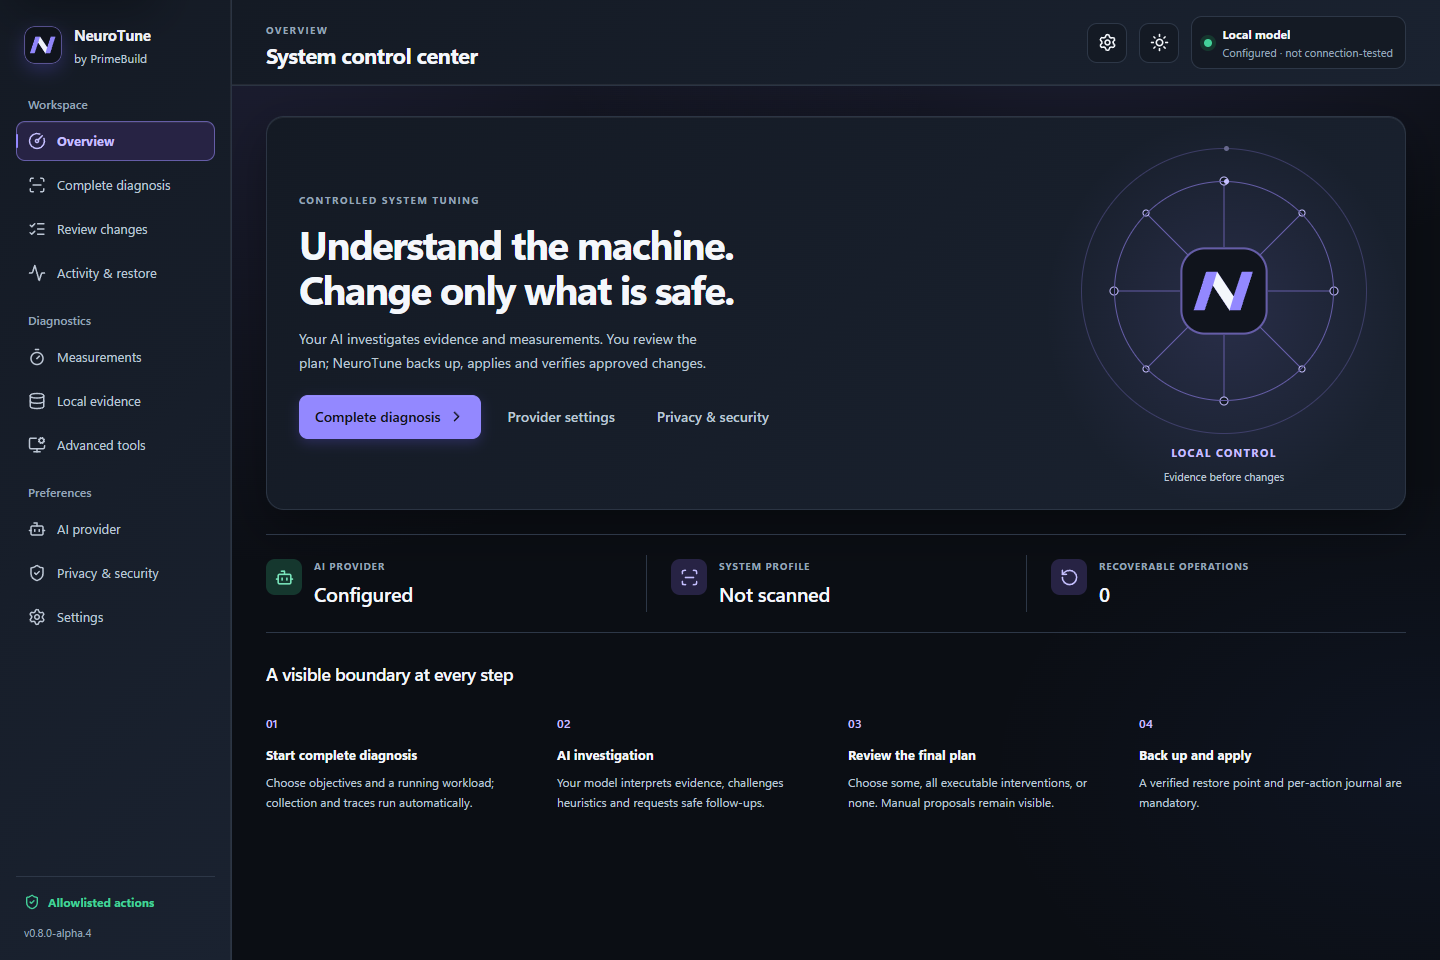
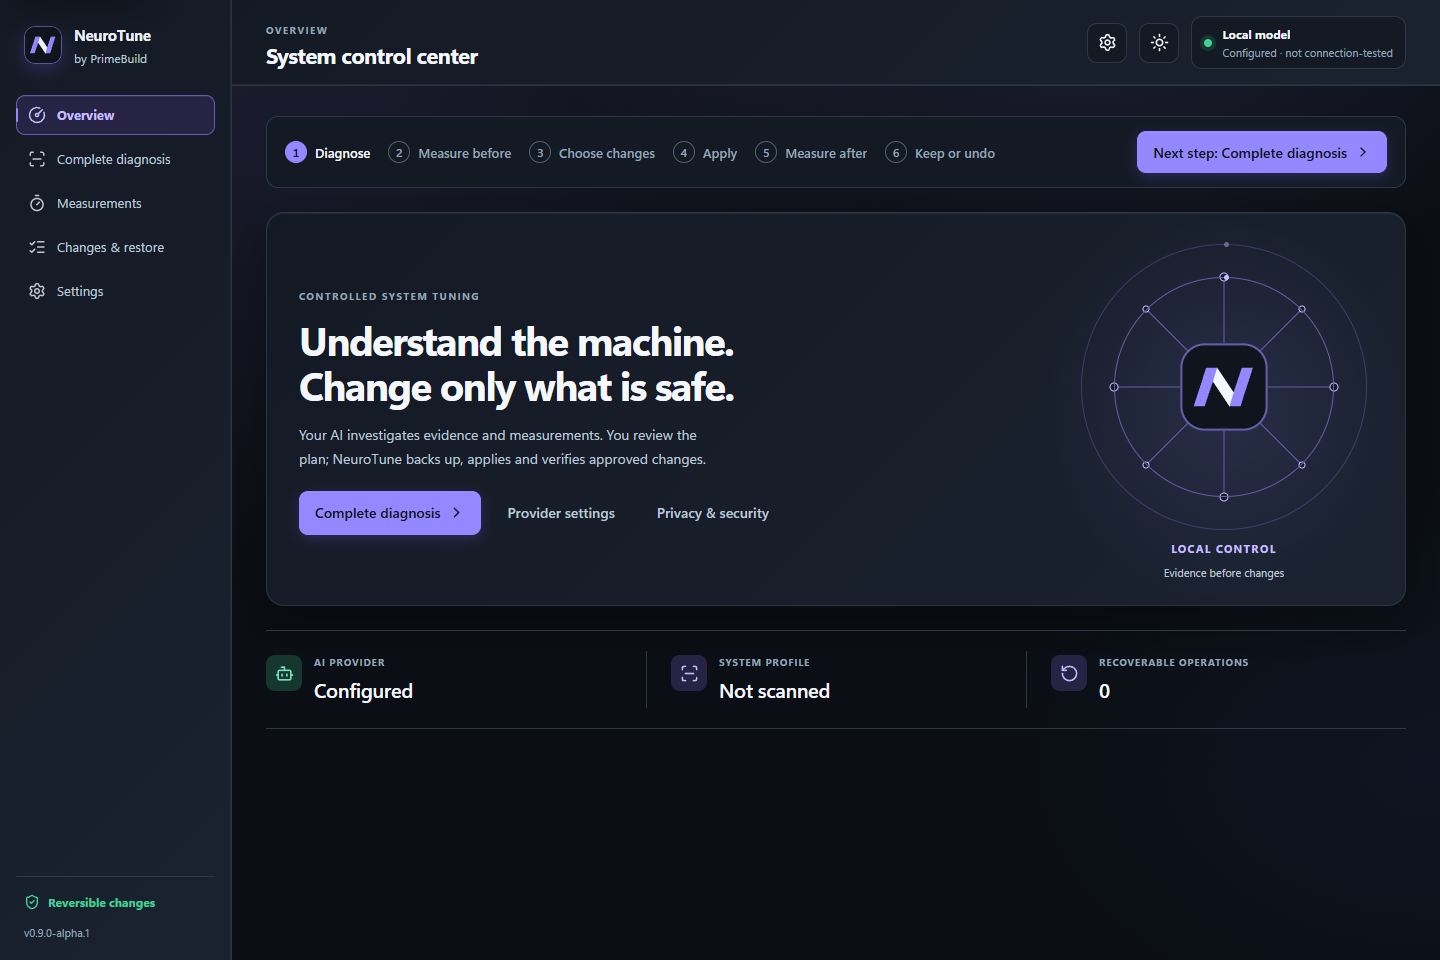
docs: current-UI README screenshots, v2 wording in two UI labels
capture-readme skips the guided setup and mocks the v2 read-only defender-guard and persistence-check calls. 'Allowlisted actions' and the registered-actions-only model output note now describe typed, approved changes and Expert-only scripts (5 translations).

diff --git a/ui/src/App.tsx b/ui/src/App.tsx
@@ -567,7 +567,7 @@ function App() {
         <div className="brand"><img className="brand-mark" src="/logo.svg" width="40" height="40" alt=""/><div><strong>NeuroTune</strong><span>by PrimeBuild</span></div></div>
         <Navigation items={navigation.map(item => ({ ...item, label: t(item.label) }))} page={page} onPage={setPage} disabled={Boolean(diagnosisProgress) || securityBusy} quiet={quietMotion}/>
         <div className="sidebar-foot">
-          <div className="security-chip"><ShieldCheck size={16}/><span>{t("Allowlisted actions")}</span></div>
+          <div className="security-chip"><ShieldCheck size={16}/><span>{t("Reversible changes")}</span></div>
           <small>v0.9.0-alpha.1</small><span className="compact-attribution">by PrimeBuild</span>
         </div>
       </aside>
@@ -597,7 +597,7 @@ function App() {
           {page === 'overview' && <Overview hasProvider={providerConfigured} nextAction={nextOverviewAction} disabled={Boolean(busy || securityBusy)} scan={scan} history={history} coreState={quietMotion ? 'capture' : scanRequestId ? 'scan' : diagnosis && activeRun && ['baselineReady', 'baselinePending', 'proposalReady'].includes(activeRun.state) ? 'result' : 'idle'} onProvider={() => setPage('provider')} onScan={() => setPage('scan')} onPrivacy={() => setPage('security')}/>}
           {page === 'provider' && <ProviderPage provider={provider} apiKey={apiKey} hasCredential={hasCredential} models={models} modelLabels={modelLabels} chatGptAccounts={chatGptAccounts} authBusy={Boolean(busy) || authenticating} onSignOut={signOutChatGpt} onChoose={chooseProvider} onChange={value => { setProvider(value); if (value.chatGptAccountId !== provider.chatGptAccountId || value.baseUrl !== provider.baseUrl || value.protocol !== provider.protocol) { setHasCredential(false); setModels([]); setModelLabels({}); } }} onKey={value => { setApiKey(value); setModels([]); setModelLabels({}); }} onSave={saveProvider} onLoadModels={loadModels} onBrowserSignIn={browserSignIn} onModel={selectChatGptModel}/>}
           {(page === 'scan' || diagnosisOpened) && <div hidden={page !== 'scan'}><CompleteDiagnosis consentKey={`${provider.provider}:${provider.model}:${provider.baseUrl}:${provider.chatGptAccountId ?? ''}`} blockedReason={diagnosisBlockedReason} onProvider={!providerConfigured && !recording && !busy && !securityBusy && !runPending && !pendingRecovery ? () => setPage('provider') : undefined} mode={mode} onMode={setMode} goals={goals} onGoals={setGoals} onStart={(workload, duration, attachments, imagesConfirmed, conditions) => { void completeDiagnosis(workload, duration, attachments, imagesConfirmed, conditions); }} progress={diagnosisProgress} auditPreview={auditPreview} onAuditApprove={() => auditReview.current?.(true)} onCancel={cancelCompleteDiagnosis} blocked={Boolean(diagnosisBlockedReason)}><GoalContextEditor goals={goals} onGoals={setGoals}/></CompleteDiagnosis></div>}
-          {page === 'security' && <div className="security-page"><WindowsSecurityPanel blocked={Boolean(recording || busy || diagnosisProgress || pendingRecovery || activeRun && activeRun.mode !== 'auditOnly' && !['completed', 'failed'].includes(activeRun.state))} onBusy={setSecurityBusy}><section className="section-card"><h2>{t('AI-led investigation')}</h2><p>{t('Review Windows privacy and security evidence, protections and detections. Opening this page does not start collection, a scan, an AI request, a download or a system change.')}</p><p className="muted-copy">{t('The privacy and security objective specializes the investigation; mode, consent, provider, risk profile and approval remain separate. Choose it below, then review the complete diagnosis controls before starting.')}</p><button className="primary" disabled={Boolean(recording || busy || securityBusy || diagnosisProgress || pendingRecovery || activeRun && !['completed', 'failed'].includes(activeRun.state))} onClick={() => { setGoals(current => ({ ...current, priority: 'privacySecurity' })); setPage('scan'); }}><ShieldCheck size={16}/>{t('Choose privacy & security diagnosis')}</button><div className="settings-lines"><div><LockKeyhole size={18}/><span><strong>{t('Credentials')}</strong><small>{t('Encrypted with Windows DPAPI for this user')}</small></span></div><div><TerminalSquare size={18}/><span><strong>{t('Model output')}</strong><small>{t('AI can propose manual guidance and review-only scripts; only registered actions have write authority')}</small></span></div><div><RotateCcw size={18}/><span><strong>{t('Recovery')}</strong><small>{t('Verified restore point, Registry exports, and action journal')}</small></span></div></div></section></WindowsSecurityPanel></div>}
+          {page === 'security' && <div className="security-page"><WindowsSecurityPanel blocked={Boolean(recording || busy || diagnosisProgress || pendingRecovery || activeRun && activeRun.mode !== 'auditOnly' && !['completed', 'failed'].includes(activeRun.state))} onBusy={setSecurityBusy}><section className="section-card"><h2>{t('AI-led investigation')}</h2><p>{t('Review Windows privacy and security evidence, protections and detections. Opening this page does not start collection, a scan, an AI request, a download or a system change.')}</p><p className="muted-copy">{t('The privacy and security objective specializes the investigation; mode, consent, provider, risk profile and approval remain separate. Choose it below, then review the complete diagnosis controls before starting.')}</p><button className="primary" disabled={Boolean(recording || busy || securityBusy || diagnosisProgress || pendingRecovery || activeRun && !['completed', 'failed'].includes(activeRun.state))} onClick={() => { setGoals(current => ({ ...current, priority: 'privacySecurity' })); setPage('scan'); }}><ShieldCheck size={16}/>{t('Choose privacy & security diagnosis')}</button><div className="settings-lines"><div><LockKeyhole size={18}/><span><strong>{t('Credentials')}</strong><small>{t('Encrypted with Windows DPAPI for this user')}</small></span></div><div><TerminalSquare size={18}/><span><strong>{t('Model output')}</strong><small>{t('AI proposes typed changes that NeuroTune validates and you approve; scripts run only in Expert mode')}</small></span></div><div><RotateCcw size={18}/><span><strong>{t('Recovery')}</strong><small>{t('Verified restore point, Registry exports, and action journal')}</small></span></div></div></section></WindowsSecurityPanel></div>}
           {page === 'advanced' && <ScanPage mode={mode} onMode={value => { if (!busy && (!activeRun || ['completed', 'failed'].includes(activeRun.state))) setMode(value); }} scan={scan} diagnosis={displayedDiagnosis} goals={goals} scanning={Boolean(scanRequestId)} onGoals={setGoals} onScan={scanSystem} onDiagnose={diagnose}/>}
           {page === 'measurements' && <MeasurementsPage onRestoreItem={actionId => { if (activeRun?.operationId) void rollback(activeRun.operationId, actionId); }} onFollowUp={hydrateRun} actions={planActions} evidenceIds={measurementEvidenceIds} onEvidenceIds={setMeasurementEvidenceIds} optimizationRun={activeRun} onRun={setActiveRun} analysisGoals={goals} onRecording={setRecording}/>}
           {page === 'review' && <ReviewPage onDiagnosis={() => setPage(providerConfigured ? 'scan' : 'provider')} investigationFailed={Boolean(activeRun?.usedLocalFallback || diagnosis && diagnosis === localDiagnosis.current)} applyBlockedReason={applyBlockedReason} auditOnly={activeRun?.mode === 'auditOnly'} auditEvidence={activeRun?.evidenceFacts} diagnosis={displayedDiagnosis} supporting={activeRun?.supportingAttachments} actions={planActions} recommendations={recommendations} selected={selected} riskProfile={goals.riskProfile} canApply={activeRun?.mode !== 'auditOnly' && ['baselinePending', 'baselineReady'].includes(activeRun?.state ?? '')} onToggle={id => setSelected(current => toggle(current, id))} onPreset={applyPreset} onApply={applyChanges} onDismiss={activeRun && !activeRun.operationId && !activeRun.requiresRecovery && !['completed', 'failed'].includes(activeRun.state) ? () => { void dismissDiagnosis(); } : undefined}/>}

diff --git a/ui/src/locales/app.ts b/ui/src/locales/app.ts
@@ -213,7 +213,7 @@ export const appMessages: Messages = {
   'Got it': ['明白了', '了解', 'Entendido', 'Понятно', 'Ho capito'],
   'Skip to workspace': ['跳转到工作区', 'ワークスペースへ移動', 'Ir al área de trabajo', 'Перейти к рабочей области', 'Vai all\'area di lavoro'],
   'Windows intelligence': ['Windows 智能分析', 'Windows のインテリジェンス', 'Inteligencia para Windows', 'Интеллектуальный анализ Windows', 'Intelligenza di Windows'],
-  'Allowlisted actions': ['允许列表内的操作', '許可リスト内の操作', 'Acciones de la lista permitida', 'Действия из разрешённого списка', 'Solo azioni consentite'],
+  'Reversible changes': ['可回滚的更改', '元に戻せる変更', 'Cambios reversibles', 'Обратимые изменения', 'Modifiche reversibili'],
   'Quick Settings': ['快捷设置', 'クイック設定', 'Configuración rápida', 'Быстрые настройки', 'Impostazioni rapide'],
   'Toggle light and dark theme': ['切换浅色和深色主题', 'ライトとダークのテーマを切り替え', 'Alternar tema claro y oscuro', 'Переключить светлую и тёмную тему', 'Cambia tema chiaro/scuro'],
   'Ready': ['就绪', '準備完了', 'Listo', 'Готово', 'Pronto'],
@@ -424,7 +424,7 @@ export const appMessages: Messages = {
   'Local enforcement': ['本地强制控制', 'ローカルでの制限適用', 'Controles locales', 'Локальное обеспечение ограничений', 'Controlli locali'],
   'Credentials': ['凭据', '認証情報', 'Credenciales', 'Учётные данные', 'Credenziali'],
   'Encrypted with Windows DPAPI for this user': ['使用 Windows DPAPI 为此用户加密', 'このユーザー用に Windows DPAPI で暗号化', 'Cifradas con Windows DPAPI para este usuario', 'Зашифрованы Windows DPAPI для этого пользователя', 'Cifrate con Windows DPAPI per questo utente'],
-  'AI can propose manual guidance and review-only scripts; only registered actions have write authority': ['AI 可以提出手动指导和仅供审查的脚本；只有已注册的操作拥有写入权限', 'AI は手動の案内や確認専用スクリプトを提案できますが、書き込み権限は登録済み操作だけにあります', 'La IA puede proponer instrucciones manuales y scripts solo para revisión; únicamente las acciones registradas tienen autoridad de escritura', 'ИИ может предложить ручные инструкции и скрипты только для проверки; право записи имеют лишь зарегистрированные действия', 'L\'AI può proporre indicazioni manuali e script solo da leggere; solo le azioni registrate possono scrivere'],
+  'AI proposes typed changes that NeuroTune validates and you approve; scripts run only in Expert mode': ['AI 提出由 NeuroTune 验证、经你批准的类型化更改；脚本仅在专家模式下运行', 'AI は NeuroTune が検証しあなたが承認する型付きの変更を提案します。スクリプトはエキスパートモードでのみ実行されます', 'La IA propone cambios tipados que NeuroTune valida y tú apruebas; los scripts solo se ejecutan en modo experto', 'ИИ предлагает типизированные изменения, которые NeuroTune проверяет, а вы одобряете; скрипты работают только в экспертном режиме', 'L\'AI propone modifiche tipizzate che NeuroTune valida e tu approvi; gli script girano solo in modalità Expert'],
   'Recovery': ['恢复', '復旧', 'Recuperación', 'Восстановление', 'Ripristino'],
   'Verified restore point, Registry exports, and action journal': ['经验证的还原点、注册表导出和操作日志', '検証済み復元ポイント、レジストリのエクスポート、操作ジャーナル', 'Punto de restauración verificado, exportaciones del Registro y diario de acciones', 'Проверенная точка восстановления, экспорт реестра и журнал действий', 'Punto di ripristino verificato, esportazioni del registro e journal delle azioni'],
   'Query isolated optional telemetry': ['查询隔离的可选遥测', '隔離した任意のテレメトリを照会', 'Consultar telemetría opcional aislada', 'Запросить изолированную необязательную телеметрию', 'Interroga la telemetria facoltativa isolata'],
